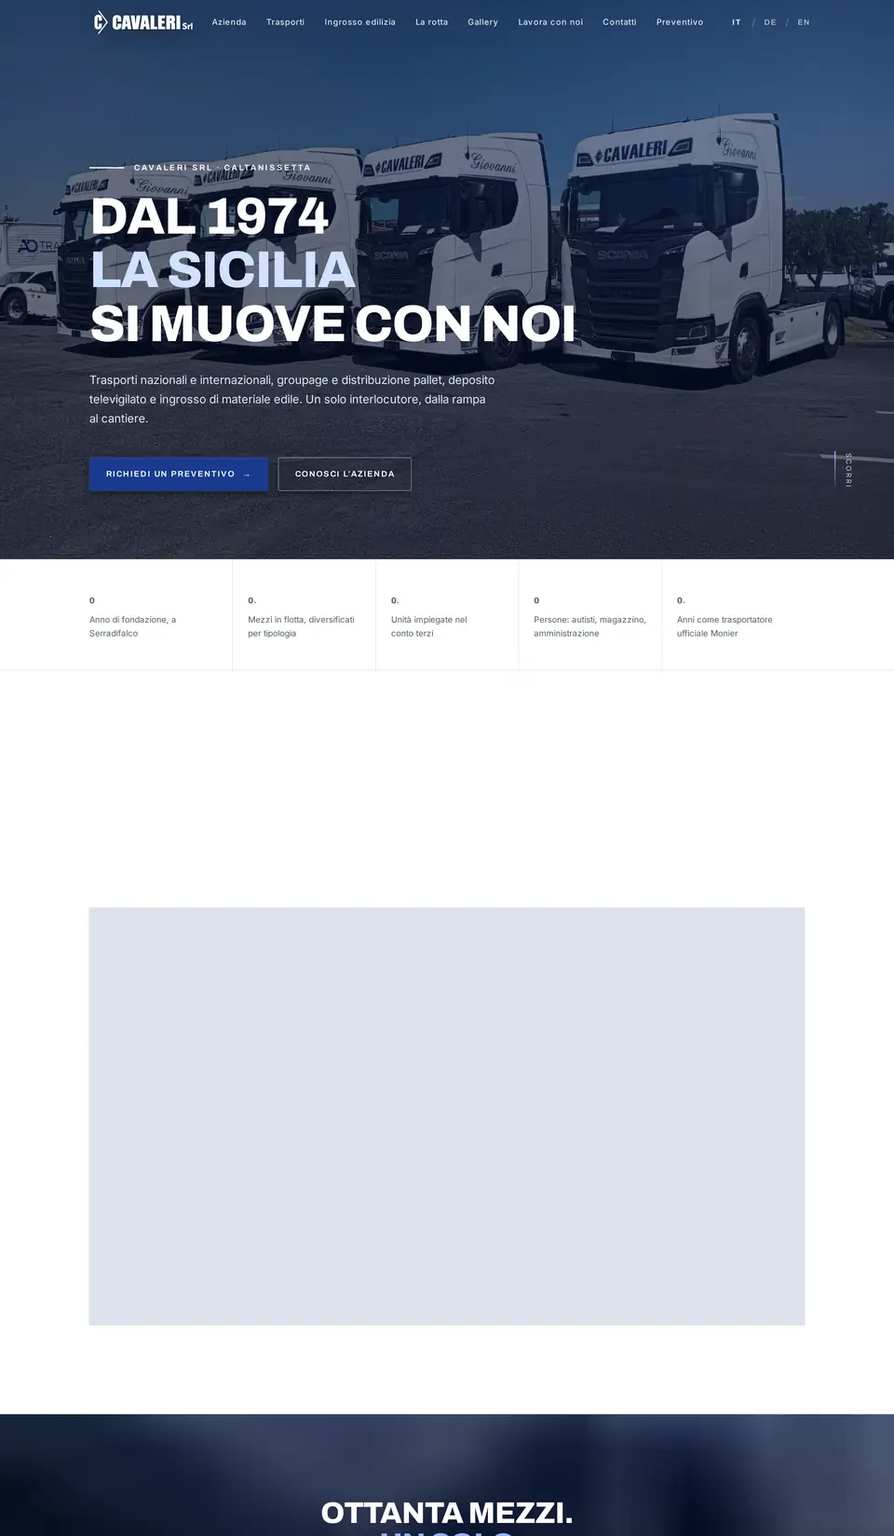
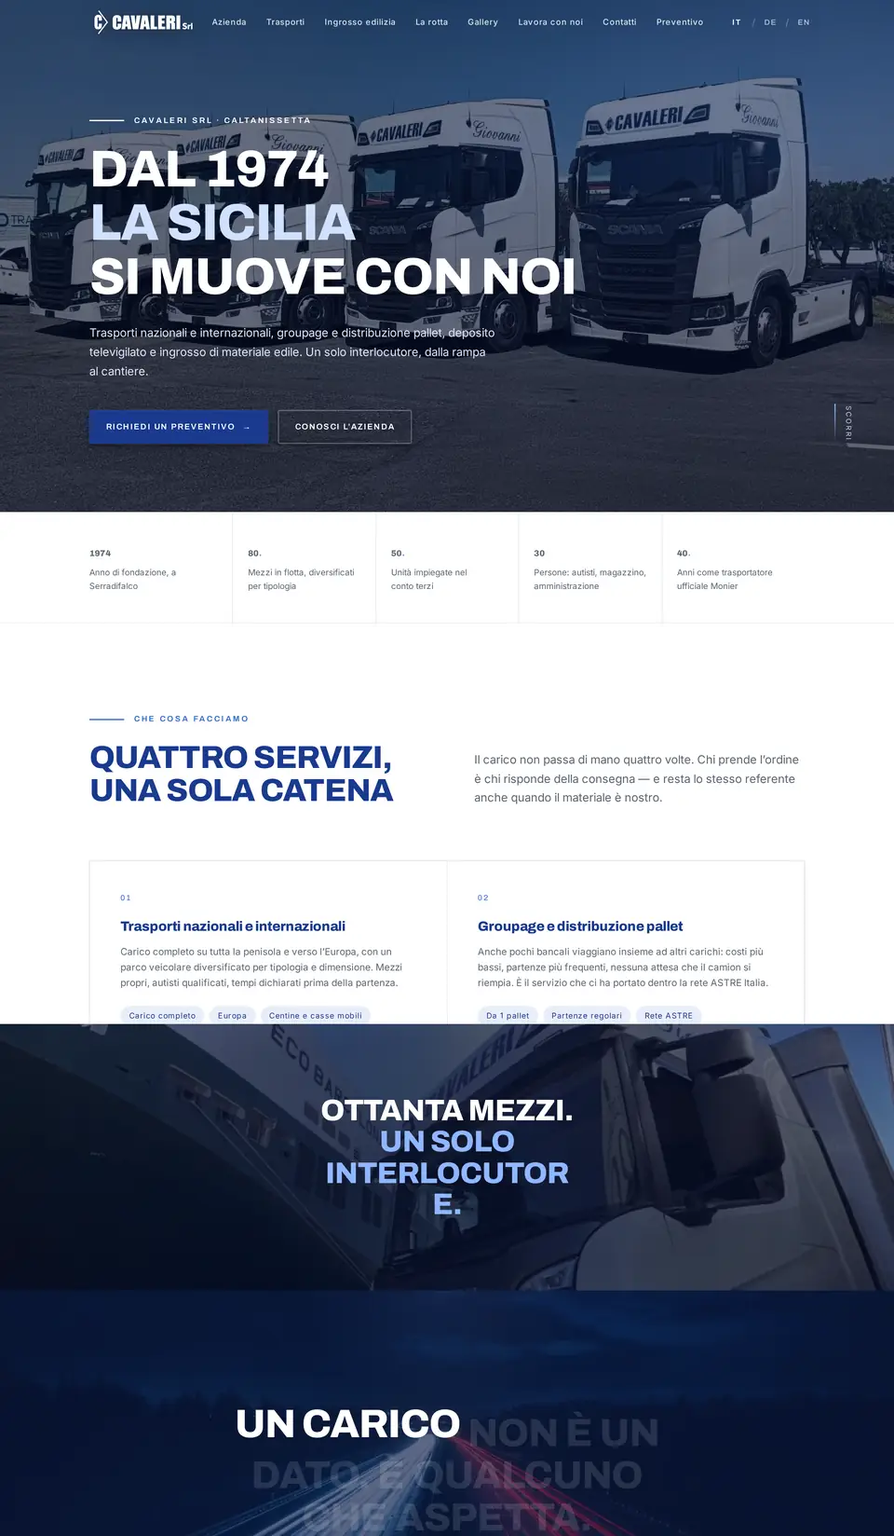
Fallstudien ohne graue Kästen, Lade-V in Gold, Zeiger dezenter
Uwe: „Bei Cavaleri, Mensaena, Trendonix und Jonika sind auf den Webseiten
keine Bilder, sondern graue Kästen", „das blaue V am Anfang soll auch Gold
sein", „Mauszeiger dezenter, aber edel".

- Bildschirm-Bahnen neu aufgenommen (tools/kundenseiten-aufnehmen.py):
  Die alten Aufnahmen entstanden direkt nach dem Laden, nachladende Bilder
  standen als graue Kästen da (Cavaleri), Einblendungen waren eingefroren
  (Mensaena: zwei Überschriften übereinander). Jetzt wie ein Besucher:
  erstes Bild sofort (passt zum Fotorender), dann vorscrollen, auf alle
  Bilder warten, Abschnittsanfänge per Mausrad anfahren, kleine feste
  Elemente ausblenden, Cookie-Hinweise per Stil verbergen.
  Mensaena legt den Inhalt in einen festen Behälter -- alle festen Elemente
  auszublenden machte dort alles schwarz; jetzt nur kleine.
- Ladezeichen (boot) in index/tecnica: Verlauf Altgold -> Champagner statt
  Blau -> Cyan; theme-color warm.
- Telefonassistent: Akzentfarbe Gold statt #066ff9 (Inline-Stil des Widgets,
  mit !important überschrieben, im Browser nachgesehen).
- Zeiger: Ring 34 -> 26 px, halb durchsichtig, Punkt 4 px, weniger Weitung,
  weniger Nachzug.
- Küchenplaner/AR: Auswahlrahmen und Platzierungsring gold, kühle Grautöne
  neutral.

Claude-Session: https://claude.ai/code/session_0135rAtjoGuAaZoAJvzmob6g

diff --git a/assets/js/erlebnis/kuechenplaner-3d.js b/assets/js/erlebnis/kuechenplaner-3d.js
@@ -59,7 +59,7 @@ export function materialien(renderer) {
       salbei: new THREE.MeshPhysicalMaterial({ color: 0x6b7a6b, roughness: 0.62, clearcoat: 0.15, clearcoatRoughness: 0.5 }),
       weiss: new THREE.MeshPhysicalMaterial({ color: 0xe6e4df, roughness: 0.42, clearcoat: 0.2, clearcoatRoughness: 0.4 }),
       nussbaum: new THREE.MeshPhysicalMaterial({ map: K('nussbaum-farbe.webp', true, 0.4), normalMap: K('nussbaum-normal.webp', false, 0.4), normalScale: new THREE.Vector2(0.2, 0.2), roughness: 0.48 }),
-      graphit: new THREE.MeshPhysicalMaterial({ color: 0x35373a, roughness: 0.5, clearcoat: 0.15, clearcoatRoughness: 0.5 }),
+      graphit: new THREE.MeshPhysicalMaterial({ color: 0x393836, roughness: 0.5, clearcoat: 0.15, clearcoatRoughness: 0.5 }),
     },
     platte: {
       eiche: new THREE.MeshPhysicalMaterial({ map: K('eiche-farbe.webp', true, 2.4), normalMap: K('eiche-normal.webp', false, 2.4), normalScale: new THREE.Vector2(0.35, 0.35), roughness: 0.5 }),
@@ -69,26 +69,26 @@ export function materialien(renderer) {
     griff: {
       messing: new THREE.MeshPhysicalMaterial({ color: 0xe1b36c, metalness: 1, roughness: 0.3 }),
       edelstahl: new THREE.MeshPhysicalMaterial({ color: 0xc9c9c6, metalness: 1, roughness: 0.26 }),
-      schwarz: new THREE.MeshPhysicalMaterial({ color: 0x151516, metalness: 0, roughness: 0.45 }),
-      grifflos: new THREE.MeshPhysicalMaterial({ color: 0x0c0c0d, roughness: 0.6 }),
+      schwarz: new THREE.MeshPhysicalMaterial({ color: 0x161615, metalness: 0, roughness: 0.45 }),
+      grifflos: new THREE.MeshPhysicalMaterial({ color: 0x0d0d0c, roughness: 0.6 }),
     },
     korpus: new THREE.MeshStandardMaterial({ color: 0xdad9d5, roughness: 0.5 }),
-    zarge: new THREE.MeshStandardMaterial({ color: 0x3a3c40, metalness: 0.6, roughness: 0.35 }),
+    zarge: new THREE.MeshStandardMaterial({ color: 0x3e3d3c, metalness: 0.6, roughness: 0.35 }),
     sockel: new THREE.MeshStandardMaterial({ color: 0x1a1a1b, roughness: 0.6 }),
     edelstahl: new THREE.MeshPhysicalMaterial({ color: 0xbfbfbc, metalness: 1, roughness: 0.22 }),
-    glasSchwarz: new THREE.MeshPhysicalMaterial({ color: 0x050506, roughness: 0.04, clearcoat: 1, clearcoatRoughness: 0.03 }),
+    glasSchwarz: new THREE.MeshPhysicalMaterial({ color: 0x060605, roughness: 0.04, clearcoat: 1, clearcoatRoughness: 0.03 }),
     kochfeld: new THREE.MeshPhysicalMaterial({ map: K('kochfeld.webp', true, 1), roughness: 0.05, clearcoat: 1, clearcoatRoughness: 0.02 }),
     // Boden: Feinsteinzeug 60 x 60 mit Fuge, gezeichnet statt geladen. Die
     // Keramikkarte der Platte als Boden wirkte fleckig und viel zu dunkel.
     boden: new THREE.MeshStandardMaterial({ map: fliesen(an), roughness: 0.55 }),
     wand: new THREE.MeshStandardMaterial({ color: 0xebe7e0, roughness: 0.92 }),
     led: new THREE.MeshStandardMaterial({ color: 0xfff4e2, emissive: 0xfff1dc, emissiveIntensity: 2.2 }),
-    auswahl: new THREE.MeshBasicMaterial({ color: 0x1fe8ff, transparent: true, opacity: 0.22, depthWrite: false }),
+    auswahl: new THREE.MeshBasicMaterial({ color: 0xf1d38b, transparent: true, opacity: 0.22, depthWrite: false }),
     zuviel: new THREE.MeshBasicMaterial({ color: 0xff4a4a, transparent: true, opacity: 0.28, depthWrite: false }),
     porzellan: new THREE.MeshPhysicalMaterial({ color: 0xf2f1ee, roughness: 0.08, clearcoat: 0.5 }),
     glasKlar: new THREE.MeshPhysicalMaterial({ color: 0xe8eeee, roughness: 0.05, transmission: 0.85, thickness: 0.004, ior: 1.5 }),
     einsatz: new THREE.MeshStandardMaterial({ color: 0xb58c62, roughness: 0.55 }),
-    schirm: new THREE.MeshPhysicalMaterial({ color: 0x1d1e20, roughness: 0.4, side: THREE.DoubleSide }),
+    schirm: new THREE.MeshPhysicalMaterial({ color: 0x1f1f1e, roughness: 0.4, side: THREE.DoubleSide }),
     birne: new THREE.MeshStandardMaterial({ color: 0xfff1d6, emissive: 0xffd9a0, emissiveIntensity: 6 }),
   };
   m.kochfeld.map.repeat.set(1, 1);
@@ -154,8 +154,8 @@ export async function starten(buehne, plan, mitteilen) {
   renderer.domElement.setAttribute('aria-label', plan.texte?.leinwand || 'Küche in 3D');
   const szene = new THREE.Scene();
   // Der Boden läuft im Dunst aus, statt an einer harten Kante im Schwarz zu enden
-  szene.background = new THREE.Color(0x14161a);
-  szene.fog = new THREE.Fog(0x14161a, 7.5, 15);
+  szene.background = new THREE.Color(0x181716);
+  szene.fog = new THREE.Fog(0x181716, 7.5, 15);
   const pm = new THREE.PMREMGenerator(renderer);
   szene.environment = pm.fromScene(new RoomEnvironment(), 0.04).texture;
   szene.environmentIntensity = 0.55;
@@ -166,7 +166,7 @@ export async function starten(buehne, plan, mitteilen) {
   sonne.castShadow = true; sonne.shadow.mapSize.set(2048, 2048); sonne.shadow.bias = -0.0004; sonne.shadow.normalBias = 0.02;
   sonne.shadow.radius = 5;
   szene.add(sonne, sonne.target);
-  szene.add(new THREE.HemisphereLight(0xf2f4f8, 0x6b645c, 0.55));
+  szene.add(new THREE.HemisphereLight(0xf8f6f2, 0x6b645c, 0.55));
 
   const kamera = new THREE.PerspectiveCamera(38, 16 / 9, 0.05, 60);
   const oben = new THREE.OrthographicCamera(-4, 4, 3, -3, 0.1, 30);

diff --git a/assets/css/app.css b/assets/css/app.css
@@ -293,9 +293,11 @@ body[data-frame="gold"] {
   .cursor {
     display: grid; place-items: center;
     opacity: 0; position: fixed; z-index: 130; top: 0; left: 0;
-    width: 34px; height: 34px; margin: -17px 0 0 -17px; border-radius: 999px;
-    border: 1px solid rgba(241, 211, 139, .72);
-    box-shadow: 0 0 0 1px rgba(0, 0, 0, .28), inset 0 0 0 1px rgba(0, 0, 0, .12);
+    /* Dezent (Uwe, 24.09.2026: „dezenter, aber edel"): kleiner, feiner,
+       halb durchsichtig -- der Zeiger begleitet, er tritt nicht auf. */
+    width: 26px; height: 26px; margin: -13px 0 0 -13px; border-radius: 999px;
+    border: 1px solid rgba(241, 211, 139, .42);
+    box-shadow: 0 0 0 .5px rgba(0, 0, 0, .22);
     pointer-events: none; will-change: transform;
     transition: width var(--d-move) var(--e-std), height var(--d-move) var(--e-std),
                 margin var(--d-move) var(--e-std), border-radius var(--d-move) var(--e-std),
@@ -304,45 +306,51 @@ body[data-frame="gold"] {
   }
   .cursor-dot {
     display: block; opacity: 0; position: fixed; z-index: 131; top: 0; left: 0;
-    width: 6px; height: 6px; margin: -3px 0 0 -3px; border-radius: 50%;
-    background: linear-gradient(135deg, #f7e6ae, #c8963a);
-    box-shadow: 0 0 0 1px rgba(0, 0, 0, .35);
+    width: 4px; height: 4px; margin: -2px 0 0 -2px; border-radius: 50%;
+    background: #e9cf86;
+    box-shadow: 0 0 0 .5px rgba(0, 0, 0, .4);
     pointer-events: none; will-change: transform;
     transition: opacity var(--d-ui) linear, scale var(--d-move) var(--e-std);
   }
   .cursor__wort {
-    font: 600 10px/1 var(--f-text); letter-spacing: .16em; text-transform: uppercase;
+    font: 600 9px/1 var(--f-text); letter-spacing: .18em; text-transform: uppercase;
     color: #16120b; opacity: 0; transition: opacity var(--d-ui) linear;
   }
   body.cursor-ready .cursor, body.cursor-ready .cursor-dot { opacity: 1; }
 
   /* Link, Knopf: Ring weitet sich, Punkt tritt zurück */
   body.is-hovering .cursor {
-    width: 58px; height: 58px; margin: -29px 0 0 -29px;
-    border-color: rgba(241, 211, 139, .95); background-color: rgba(241, 211, 139, .10);
+    width: 40px; height: 40px; margin: -20px 0 0 -20px;
+    border-color: rgba(241, 211, 139, .7); background-color: rgba(241, 211, 139, .05);
   }
-  body.is-hovering .cursor-dot { scale: .6; }
+  body.is-hovering .cursor-dot { scale: .75; }
   body.cursor--gold .cursor { border-color: rgba(22, 18, 11, .6); background-color: rgba(255, 255, 255, .14); box-shadow: none; }
   body.cursor--gold .cursor-dot { background: #16120b; box-shadow: none; }
 
   /* Textfeld: der Ring wird zur Schreibmarke */
   body.cursor--text .cursor {
-    width: 2px; height: 24px; margin: -12px 0 0 -1px; border-radius: 1px;
-    border-color: transparent; background-color: #f1d38b; box-shadow: 0 0 0 1px rgba(0, 0, 0, .3);
+    width: 1.5px; height: 20px; margin: -10px 0 0 -.75px; border-radius: 1px;
+    border-color: transparent; background-color: rgba(241, 211, 139, .85); box-shadow: none;
   }
   body.cursor--text .cursor-dot { opacity: 0; }
 
   /* Ziehen / Schieben: goldene Scheibe mit Wort */
   body.cursor--wort .cursor {
-    width: 76px; height: 76px; margin: -38px 0 0 -38px;
+    width: 62px; height: 62px; margin: -31px 0 0 -31px;
     border-color: transparent;
     background: linear-gradient(115deg, #b98a31 0%, #f7e6ae 30%, #d6a849 55%, #c49438 100%);
   }
   body.cursor--wort .cursor__wort { opacity: 1; }
   body.cursor--wort .cursor-dot { opacity: 0; }
 
-  body.cursor--druck .cursor { scale: .82; }
+  body.cursor--druck .cursor { scale: .88; }
 }
+
+/* Telefonassistent (STRATO-Widget): Es setzt seine Akzentfarbe als
+   Inline-Stil (--accent: #066ff9) -- ein blauer Kreis auf einer goldenen
+   Seite. Die Variable liest das Widget im eigenen Schattenbaum; ein
+   !important von außen gewinnt gegen den Inline-Stil (gemessen). */
+ai-voicereceptionist { --accent: #c8963e !important; }
 
 /* ---------- 4. Kopfzeile ------------------------------------------------- */
 .header {

diff --git a/index.html b/index.html
@@ -5,7 +5,7 @@
 <meta name="viewport" content="width=device-width, initial-scale=1">
 <title>Realizzazione siti web ad Agrigento e in Sicilia | Vecom Design</title>
 <meta name="description" content="Siti su misura, e-commerce e loghi da Aragona (AG). Trilingue IT/DE/EN, veloci e costruiti per Google. Prezzi allo scoperto, preventivo in 90 secondi.">
-<meta name="theme-color" content="#05070d">
+<meta name="theme-color" content="#0a0908">
 
 <link rel="canonical" href="https://vecom-design.it/">
 
@@ -32,7 +32,7 @@
 <link rel="preload" href="assets/fonts/archivo-latin.woff2" as="font" type="font/woff2" crossorigin>
 <link rel="preload" href="assets/fonts/inter-latin.woff2" as="font" type="font/woff2" crossorigin>
 <link rel="stylesheet" href="assets/css/fonts.css?v=660e3c04">
-<link rel="stylesheet" href="assets/css/app.css?v=3996b26c">
+<link rel="stylesheet" href="assets/css/app.css?v=5f96b3a3">
 <link rel="stylesheet" href="assets/css/erlebnis.css?v=612a46c6">
 <link rel="stylesheet" href="assets/css/edel.css?v=2689c962">
 
@@ -272,7 +272,7 @@
 <div class="boot" data-boot aria-hidden="true">
   <svg viewBox="0 0 100 100" width="110" height="110" fill="none" stroke="url(#bootGrad)" stroke-width="1.6" stroke-linejoin="round">
     <defs><linearGradient id="bootGrad" x1="0" y1="1" x2="1" y2="0">
-      <stop offset="0" stop-color="#0648e8"/><stop offset="1" stop-color="#1fe8ff"/>
+      <stop offset="0" stop-color="#8a6322"/><stop offset="0.55" stop-color="#e9cf86"/><stop offset="1" stop-color="#c8963a"/>
     </linearGradient></defs>
     <path d="M4.49 3.50 L43.81 93.15 L46.41 97.34 L52.50 95.10 L55.76 90.36 L61.84 75.56 L32.73 10.20 L29.69 6.01 L24.91 3.50 Z"/>
     <path d="M94.86 3.78 L68.79 4.06 L64.44 7.13 L59.23 17.74 L54.24 30.87 L71.40 31.15 L67.70 38.97 L51.63 38.97 L53.80 45.95 L64.88 69.41 L73.79 51.81 Z"/>
@@ -806,7 +806,7 @@
       </header>
       <div class="bd-raster kp-raster">
         <div class="bd-links">
-          <figure class="buehne buehne--produkt kp-buehne" data-src="assets/js/erlebnis/kuechenplaner-3d.js?v=be65e823">
+          <figure class="buehne buehne--produkt kp-buehne" data-src="assets/js/erlebnis/kuechenplaner-3d.js?v=6dcdb50b">
             <picture>
               <source type="image/avif" srcset="assets/img/erlebnis/branchen/kueche-salbei.avif?v=570d0aa0">
               <img class="ruhe ist-an ist-oben" src="assets/img/erlebnis/branchen/kueche-salbei.webp?v=8dffd242" width="1600" height="900" loading="lazy" decoding="async" alt="">
@@ -1418,7 +1418,7 @@
 </a>
 
 <script src="assets/js/i18n-it.js?v=c397f8c9" defer></script>
-<script src="assets/js/app.js?v=e082a67d" defer></script>
+<script src="assets/js/app.js?v=377e910d" defer></script>
 <script src="assets/js/sprachhinweis.js?v=c3e9c14b" defer></script>
 <script src="assets/vendor/gsap.min.js?v=9396f256" defer></script>
 <script src="assets/vendor/ScrollTrigger.min.js?v=05ca5ad8" defer></script>

diff --git a/tecnica.html b/tecnica.html
@@ -5,7 +5,7 @@
 <meta name="viewport" content="width=device-width, initial-scale=1">
 <title>La tecnica dietro le demo — livelli di qualità, confronto, streaming | Vecom Design</title>
 <meta name="description" content="Come le demo 3D di Vecom Design girano fluide su ogni dispositivo: livelli di qualità automatici, tempo reale contro video a confronto e streaming Unreal per scene che nessun telefono può calcolare.">
-<meta name="theme-color" content="#05070d">
+<meta name="theme-color" content="#0a0908">
 
 <link rel="canonical" href="https://vecom-design.it/tecnica.html">
 
@@ -32,7 +32,7 @@
 <link rel="preload" href="assets/fonts/archivo-latin.woff2" as="font" type="font/woff2" crossorigin>
 <link rel="preload" href="assets/fonts/inter-latin.woff2" as="font" type="font/woff2" crossorigin>
 <link rel="stylesheet" href="assets/css/fonts.css?v=660e3c04">
-<link rel="stylesheet" href="assets/css/app.css?v=3996b26c">
+<link rel="stylesheet" href="assets/css/app.css?v=5f96b3a3">
 <link rel="stylesheet" href="assets/css/erlebnis.css?v=612a46c6">
 <link rel="stylesheet" href="assets/css/edel.css?v=2689c962">
 
@@ -200,7 +200,7 @@
 <div class="boot" data-boot aria-hidden="true">
   <svg viewBox="0 0 100 100" width="110" height="110" fill="none" stroke="url(#bootGrad)" stroke-width="1.6" stroke-linejoin="round">
     <defs><linearGradient id="bootGrad" x1="0" y1="1" x2="1" y2="0">
-      <stop offset="0" stop-color="#0648e8"/><stop offset="1" stop-color="#1fe8ff"/>
+      <stop offset="0" stop-color="#8a6322"/><stop offset="0.55" stop-color="#e9cf86"/><stop offset="1" stop-color="#c8963a"/>
     </linearGradient></defs>
     <path d="M4.49 3.50 L43.81 93.15 L46.41 97.34 L52.50 95.10 L55.76 90.36 L61.84 75.56 L32.73 10.20 L29.69 6.01 L24.91 3.50 Z"/>
     <path d="M94.86 3.78 L68.79 4.06 L64.44 7.13 L59.23 17.74 L54.24 30.87 L71.40 31.15 L67.70 38.97 L51.63 38.97 L53.80 45.95 L64.88 69.41 L73.79 51.81 Z"/>
@@ -433,7 +433,7 @@
 </a>
 
 <script src="assets/js/i18n-it.js?v=c397f8c9" defer></script>
-<script src="assets/js/app.js?v=e082a67d" defer></script>
+<script src="assets/js/app.js?v=377e910d" defer></script>
 <script src="assets/js/sprachhinweis.js?v=c3e9c14b" defer></script>
 <script src="assets/vendor/gsap.min.js?v=9396f256" defer></script>
 <script src="assets/vendor/ScrollTrigger.min.js?v=05ca5ad8" defer></script>

diff --git a/prezzi.html b/prezzi.html
@@ -28,7 +28,7 @@
 <link rel="preload" href="assets/fonts/archivo-latin.woff2" as="font" type="font/woff2" crossorigin>
 <link rel="preload" href="assets/fonts/inter-latin.woff2" as="font" type="font/woff2" crossorigin>
 <link rel="stylesheet" href="assets/css/fonts.css?v=660e3c04">
-<link rel="stylesheet" href="assets/css/app.css?v=3996b26c">
+<link rel="stylesheet" href="assets/css/app.css?v=5f96b3a3">
 <link rel="stylesheet" href="assets/css/edel.css?v=2689c962">
 <script type="application/ld+json">
 {
@@ -348,7 +348,7 @@
 </footer>
 
 <script src="assets/js/i18n-it.js?v=c397f8c9" defer></script>
-<script src="assets/js/app.js?v=e082a67d" defer></script>
+<script src="assets/js/app.js?v=377e910d" defer></script>
 <script src="assets/js/sprachhinweis.js?v=c3e9c14b" defer></script>
 <script src="assets/js/preise-live.js?v=5e394185" defer></script>
 </body>

diff --git a/assistenza.html b/assistenza.html
@@ -28,7 +28,7 @@
 <link rel="preload" href="assets/fonts/archivo-latin.woff2" as="font" type="font/woff2" crossorigin>
 <link rel="preload" href="assets/fonts/inter-latin.woff2" as="font" type="font/woff2" crossorigin>
 <link rel="stylesheet" href="assets/css/fonts.css?v=660e3c04">
-<link rel="stylesheet" href="assets/css/app.css?v=3996b26c">
+<link rel="stylesheet" href="assets/css/app.css?v=5f96b3a3">
 <link rel="stylesheet" href="assets/css/edel.css?v=2689c962">
 </head>
 <body class="seite-preise">
@@ -220,7 +220,7 @@
 </footer>
 
 <script src="assets/js/i18n-it.js?v=c397f8c9" defer></script>
-<script src="assets/js/app.js?v=e082a67d" defer></script>
+<script src="assets/js/app.js?v=377e910d" defer></script>
 <script src="assets/js/sprachhinweis.js?v=c3e9c14b" defer></script>
 <script src="assets/js/pakete-live.js?v=cd1d0b30" defer></script>
 </body>

diff --git a/assets/js/erlebnis/ar.js b/assets/js/erlebnis/ar.js
@@ -46,7 +46,7 @@ export async function webxrStarten(quelle, texte) {
   szene.add(new THREE.HemisphereLight(0xffffff, 0x8a8078, 1.6));
   const sonne = new THREE.DirectionalLight(0xffffff, 1.4); sonne.position.set(1, 3, 2); szene.add(sonne);
   szene.add(obj);
-  const ring = new THREE.Mesh(new THREE.RingGeometry(0.12, 0.15, 48).rotateX(-Math.PI / 2), new THREE.MeshBasicMaterial({ color: 0x1fe8ff }));
+  const ring = new THREE.Mesh(new THREE.RingGeometry(0.12, 0.15, 48).rotateX(-Math.PI / 2), new THREE.MeshBasicMaterial({ color: 0xf1d38b }));
   ring.matrixAutoUpdate = false; ring.visible = false; szene.add(ring);
   const kam = new THREE.PerspectiveCamera();
   const r = new THREE.WebGLRenderer({ antialias: true, alpha: true });

diff --git a/assets/js/app.js b/assets/js/app.js
@@ -487,7 +487,7 @@
     /* Die Schleife läuft nur, solange der Ring noch nachzieht -- ein ruhender
        Zeiger kostet keinen einzigen Frame. */
     function ride() {
-      rx += (mxp - rx) * 0.2; ry += (myp - ry) * 0.2;
+      rx += (mxp - rx) * 0.26; ry += (myp - ry) * 0.26;   // wenig Nachzug: ruhig, nicht schwammig
       ring.style.transform = 'translate3d(' + rx.toFixed(2) + 'px,' + ry.toFixed(2) + 'px,0)';
       if (Math.abs(mxp - rx) + Math.abs(myp - ry) > 0.1) requestAnimationFrame(ride);
       else laeuft = false;

diff --git a/tools/kundenseiten-aufnehmen.py b/tools/kundenseiten-aufnehmen.py
@@ -1,0 +1,90 @@
+"""Bahn-Aufnahmen der Kundenseiten, Fassung 3 (24.09.2026).
+
+ref.py:  sofort nach dem Laden, full_page -> graue Kästen (Nachlader) und
+         halbe Einblendungen.
+ref2.py: vorher durchgescrollt, aber full_page -> Chromium vergrößert dafür
+         das Fenster; Mensaena malte dabei schwarze Rechtecke, alles unter
+         dem Aufmacher blieb dunkel (die Einblender sahen nie ein Fenster).
+Jetzt: genau so, wie ein Besucher scrollt -- Fenster in Bildschirmgröße des
+Geräts im Foto (1440 x 824 bzw. 390 x 727), drei Aufnahmen untereinander,
+feste Kopfleisten ab der zweiten ausgeblendet, Cookie-Hinweise per Stil
+verborgen (nichts wird angeklickt)."""
+import asyncio, os, sys
+from playwright.async_api import async_playwright
+from PIL import Image
+SEITEN = {'cavaleri':'https://cavaleri-trasporti.netlify.app/', 'jonika':'https://jonika-venturis.com/', 'mensaena':'https://mensaena.de/', 'trendonix':'https://www.trendonix-buecher.de/'}
+WAHL = sys.argv[1:] or list(SEITEN)
+BANNER_WEG = """() => {
+  for (const el of document.querySelectorAll('body *')) {
+    const s = getComputedStyle(el);
+    if ((s.position === 'fixed' || s.position === 'sticky') && /cookie|zählen|datenschutz|consent/i.test(el.textContent || '') && el.textContent.length < 800
+        && el.getBoundingClientRect().top > innerHeight * 0.35) el.style.setProperty('display', 'none', 'important');
+  }
+}"""
+# Nur kleine feste Elemente (Kopfleiste, Knöpfe, Hinweise) -- nicht große:
+# Seiten mit eigenem Scrollen legen den ganzen Inhalt in einen festen
+# Behälter; ihn auszublenden machte bei Mensaena alles schwarz.
+FEST_WEG = """() => { for (const el of document.querySelectorAll('body *')) { const s = getComputedStyle(el);
+  if (s.position !== 'fixed' && s.position !== 'sticky') continue;
+  const r = el.getBoundingClientRect();
+  if (r.height < innerHeight * 0.3 && r.width * r.height < innerWidth * innerHeight * 0.35) el.style.setProperty('visibility', 'hidden', 'important'); } }"""
+async def main():
+    prox = os.environ.get('HTTPS_PROXY') or os.environ.get('https_proxy')
+    async with async_playwright() as p:
+        b = await p.chromium.launch(proxy={'server': prox} if prox else None)
+        for k in WAHL:
+            for name, vp, dsf in (('laptop', {'width':1440,'height':824}, 2), ('handy', {'width':390,'height':727}, 3)):
+                ctx = await b.new_context(viewport=vp, device_scale_factor=dsf, ignore_https_errors=True, is_mobile=(name=='handy'), has_touch=(name=='handy'))
+                pg = await ctx.new_page()
+                await pg.goto(SEITEN[k], wait_until='load', timeout=60000)
+                await pg.wait_for_timeout(3500)
+                # Das erste Bild sofort: Es muss zum Bildschirm im Fotorender passen,
+                # und Cavaleri wechselt im Aufmacher die Fotos -- nach dem
+                # Vorscrollen stand dort schon ein anderes (Sprung am Filmende).
+                await pg.evaluate(BANNER_WEG)
+                await pg.screenshot(path=f'/tmp/claude-0/ref3/{k}-{name}-0.png')
+                # einmal durch die ersten Bildschirme und zurück: Nachlader laden vor
+                for y in range(0, vp['height'] * 4, vp['height'] // 3):
+                    await pg.mouse.wheel(0, vp['height'] // 3); await pg.wait_for_timeout(180)
+                await pg.mouse.wheel(0, -100000); await pg.wait_for_timeout(1500); await pg.evaluate("window.scrollTo(0,0)"); await pg.wait_for_timeout(4500)
+                await pg.evaluate(BANNER_WEG)
+                # Ab dem zweiten Bild an Abschnittsanfänge springen statt um feste
+                # Bildschirmhöhen: Mensaena heftet den Aufmacher an und blendet
+                # darin um -- dort zeigte jede weitere Bildschirmhöhe nur Schwarz.
+                ziele = await pg.evaluate("""(H) => { const out = []; let grenze = H * 0.85;
+                  const secs = [...document.querySelectorAll('section, main > div, footer')].map(e => Math.round(e.getBoundingClientRect().top + scrollY)).sort((a, b) => a - b);
+                  for (const t of secs) { if (t >= grenze && out.length < 2) { out.push(t); grenze = t + H * 0.85; } }
+                  while (out.length < 2) out.push((out.length + 1) * H); return out; }""", vp['height'])
+                if k == 'mensaena':
+                    # Aufmacher mit Scroll-Erzählung (vier Überschriften übereinander
+                    # im selben angehefteten Bereich): ein Bild mitten in der Erzählung,
+                    # dann der erste feste Abschnitt danach („Sieben Welten").
+                    ziele = await pg.evaluate("""(H) => { const hs = [...document.querySelectorAll('h2')].map(h => Math.round(h.getBoundingClientRect().top + scrollY));
+                      const erst = hs[0]; const fest = hs.find(t => t > erst + 2 * H) || erst + 3 * H;
+                      return [Math.round(erst + H * 0.35), fest - Math.round(H * 0.12)]; }""", vp['height'])
+                teile = []
+                for i in range(3):
+                    if i:
+                        # echte Radbewegung statt scrollTo: Seiten mit eigener
+                        # Scroll-Steuerung (Lenis/GSAP) reagieren nur darauf
+                        await pg.mouse.move(vp['width'] // 2, vp['height'] // 2)
+                        ist = await pg.evaluate("scrollY")
+                        while ist < ziele[i-1] - 4:
+                            await pg.mouse.wheel(0, min(120, ziele[i-1] - ist)); await pg.wait_for_timeout(60)
+                            neu = await pg.evaluate("scrollY")
+                            if neu == ist: await pg.wait_for_timeout(300); neu = await pg.evaluate("scrollY")
+                            if neu == ist: break
+                            ist = neu
+                        await pg.wait_for_timeout(2200)
+                        await pg.evaluate(FEST_WEG); await pg.evaluate(BANNER_WEG)
+                    pfad = f'/tmp/claude-0/ref3/{k}-{name}-{i}.png'
+                    if i: await pg.screenshot(path=pfad)
+                    teile.append(Image.open(pfad))
+                w = teile[0].width; ges = Image.new('RGB', (w, sum(t.height for t in teile)))
+                y = 0
+                for t in teile: ges.paste(t.convert('RGB'), (0, y)); y += t.height
+                ges.save(f'/tmp/claude-0/ref3/{k}-{name}-ganz.png')
+                print(k, name, ges.size, ziele)
+                await ctx.close()
+        await b.close()
+asyncio.run(main())
